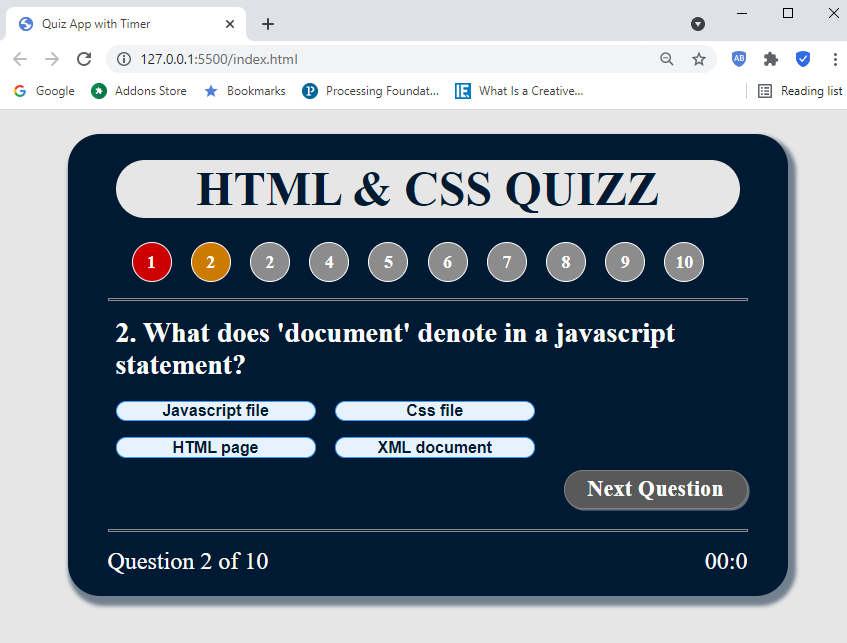
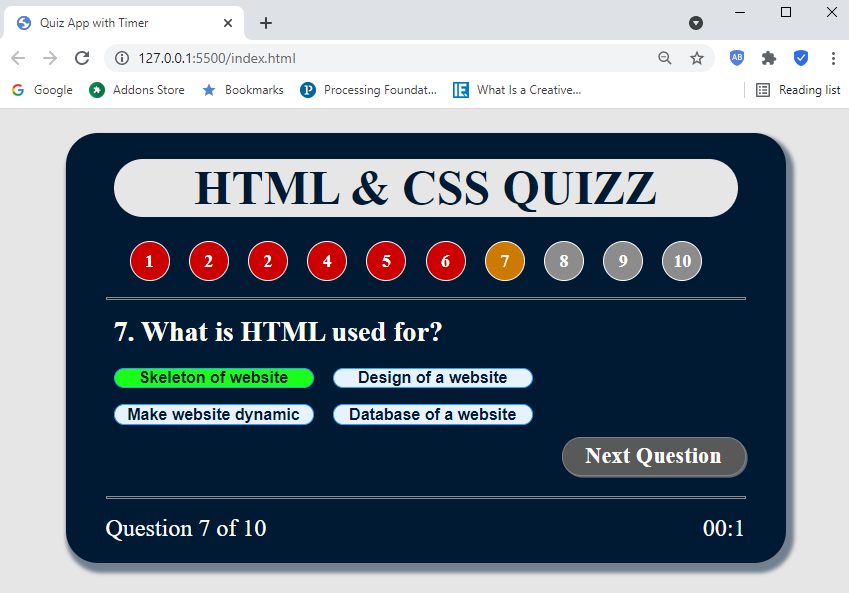
hhiiii

Changed region(s): [[0.0, 0.0304, 1.0, 0.9713], [0.9209, 0.0, 1.0, 0.0304]]

diff --git a/README.md b/README.md
@@ -10,6 +10,12 @@ This project is related to my learning of Oriented Object Programming in Javascr
 ## Pictures
 
 ![](./image/quizzapp.PNG)
+</br>
+</br>
+
+![](./image/quizzapp2.PNG)
+
+
 
 
 
